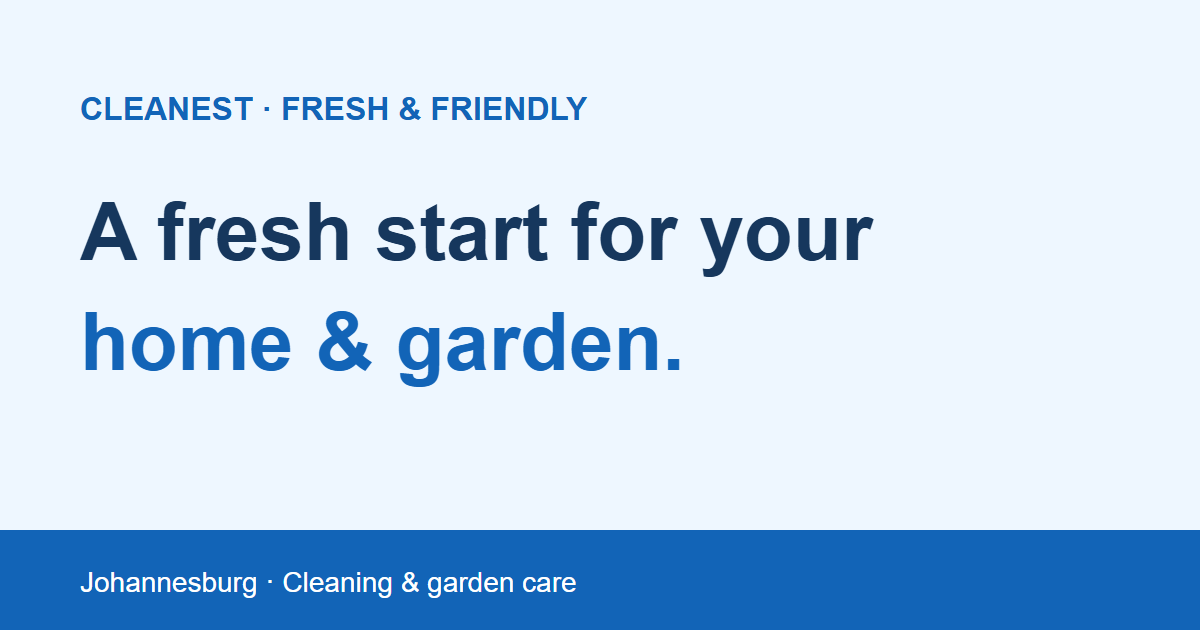
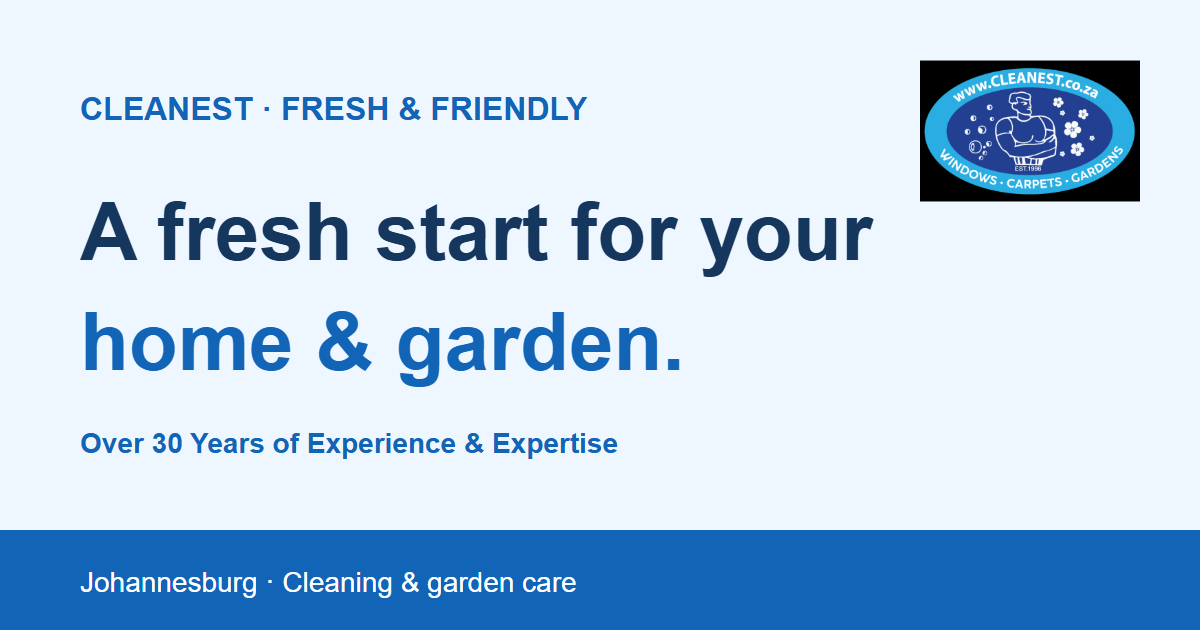
Apply client-selected branding and service updates

Changed region(s): [[0.74, 0.0905, 0.9558, 0.3317], [0.0617, 0.6635, 0.5242, 0.7238]]

diff --git a/src/main.tsx b/src/main.tsx
@@ -1,7 +1,7 @@
 import { StrictMode, useEffect, useRef, useState } from 'react';
 import { createRoot } from 'react-dom/client';
 import { ArrowRight, ArrowUpRight, Check, Leaf, MapPin, Menu, X, Phone, Sparkles, HeartHandshake, Building2, MessageCircle, Quote } from 'lucide-react';
-import { areas, business, reviews, services } from './data';
+import { areas, business, experience, reviews, services } from './data';
 import { Heading, Logo, Photo, QuoteButton } from './components';
 import { QuoteForm } from './QuoteForm';
 import './styles.css';
@@ -19,9 +19,9 @@ function App(){
   const review=reviews[0];
   useEffect(()=>{const onKey=(event:KeyboardEvent)=>{if(event.key==='Escape'&&menuOpen){setMenuOpen(false);menuButton.current?.focus();}};window.addEventListener('keydown',onKey);return()=>window.removeEventListener('keydown',onKey);},[menuOpen]);
   return <><a className="skip-link" href="#main">Skip to content</a><div className="utility-bar" role="region" aria-label="Contact Cleanest"><div className="wrap"><span><MapPin size={14}/>Johannesburg</span><div><a href={`tel:${business.tel}`}><Phone size={14}/>{business.phone}</a><a href={business.whatsapp} target="_blank" rel="noreferrer"><MessageCircle size={14}/>WhatsApp us<ArrowUpRight size={13}/></a></div></div></div><header className="site-header"><div className="wrap nav-row"><Logo/><nav id="main-navigation" className={menuOpen?'open':''} aria-label="Main navigation">{navigation.map(([title,href])=><a href={href} key={href} onClick={()=>setMenuOpen(false)}>{title}</a>)}</nav><QuoteButton className="header-quote"/><button ref={menuButton} className="menu-button" aria-label={menuOpen?'Close navigation':'Open navigation'} aria-expanded={menuOpen} aria-controls="main-navigation" onClick={()=>setMenuOpen(!menuOpen)}>{menuOpen?<X/>:<Menu/>}</button></div><div className="mobile-contacts"><a href={`tel:${business.tel}`}><Phone size={15}/>Call Cleanest</a><a href={business.whatsapp} target="_blank" rel="noreferrer"><MessageCircle size={16}/>WhatsApp us</a><a href="#contact" onClick={()=>setMenuOpen(false)}>Request a Quote<ArrowRight size={15}/></a></div></header>
-    <main id="main"><section className="hero" id="home"><div className="hero-photo"><Photo file="newgarden2.webp" alt="Cleanest’s garden maintenance worker trimming a hedge, from the existing Cleanest website" priority/><span className="hero-photo-note"><Leaf size={17}/>Fresh outdoors. Cared-for spaces.</span></div><div className="wrap hero-inner"><div className="hero-message"><span className="kicker"><span className="fresh-dot"/>CLEANING & GARDEN CARE</span><h1>A fresh start<br/>for your<br/><span>home & garden.</span></h1><p>Professional cleaning and garden care, with 29 years of experience helping homes and businesses feel fresh, inside and out.</p><div className="hero-places"><MapPin size={16}/>Johannesburg</div><div className="hero-actions"><QuoteButton/><a className="btn btn-white" href="#services">Explore Services<ArrowRight size={17}/></a></div><a className="hero-whatsapp" href={business.whatsapp} target="_blank" rel="noreferrer"><MessageCircle size={17}/>Let’s talk about your space<ArrowUpRight size={15}/></a></div></div></section>
-    <div className="quick-trust"><div className="wrap"><div className="trust-years"><strong>29</strong><span>years of<br/>experience</span></div><div><HeartHandshake/><span>Owner managed.<br/><strong>Personally cared for.</strong></span></div><div><MapPin/><span>Johannesburg<br/>& surrounds</span></div><div><Sparkles/><span>Cleaning inside.<br/><strong>Garden care outside.</strong></span></div></div></div>
-    <section className="section wrap" id="services"><div className="section-top"><Heading kicker="A LITTLE HELP GOES A LONG WAY" title="Fresh spaces start here." text="One place for the cleaning and garden care your property needs."/><QuoteButton className="services-quote"/></div><div className="services-layout">{services.map((item,index)=><article key={item.id} id={item.id} className={`service-tile service-${item.id}`}><div className="service-photo"><Photo file={item.image} alt={item.alt}/><span className="service-icon">{index===2?<Leaf size={22}/>:<Sparkles size={22}/>}</span></div><div className="service-content"><span className="service-category">{index===2?'OUTDOOR CARE':'INDOOR CARE'}</span><h3>{item.name}</h3><p>{item.description}</p><ul>{item.details.map(detail=><li key={detail}><Check size={15}/>{detail}</li>)}</ul><QuoteButton onClick={()=>setService(item.name)} className="service-quote">Request a Quote</QuoteButton></div></article>)}</div><div className="services-extra"><Leaf size={19}/><p>Garden care for complexes, estates, schools and sports fields, too.</p><a href="#contact" onClick={()=>setService('Garden services')}>Tell us what you need<ArrowRight size={17}/></a></div></section>
+    <main id="main"><section className="hero" id="home"><div className="hero-photo"><Photo file="newgarden2.webp" alt="Cleanest’s garden maintenance worker trimming a hedge, from the existing Cleanest website" priority/><span className="hero-photo-note"><Leaf size={17}/>Fresh outdoors. Cared-for spaces.</span></div><div className="wrap hero-inner"><div className="hero-message"><span className="kicker"><span className="fresh-dot"/>CLEANING & GARDEN CARE</span><h1>A fresh start<br/>for your<br/><span>home & garden.</span></h1><p className="hero-experience"><strong>{experience}</strong></p><p>Professional cleaning and garden care for homes and businesses, inside and out.</p><div className="hero-places"><MapPin size={16}/>Johannesburg</div><div className="hero-actions"><QuoteButton/><a className="btn btn-white" href="#services">Explore Services<ArrowRight size={17}/></a></div><a className="hero-whatsapp" href={business.whatsapp} target="_blank" rel="noreferrer"><MessageCircle size={17}/>Let’s talk about your space<ArrowUpRight size={15}/></a></div></div></section>
+    <div className="quick-trust"><div className="wrap"><div className="trust-years"><strong>Over 30</strong><span>Years of Experience<br/>&amp; Expertise</span></div><div><HeartHandshake/><span>Owner managed.<br/><strong>Personally cared for.</strong></span></div><div><MapPin/><span>Johannesburg<br/>& surrounds</span></div><div><Sparkles/><span>Cleaning inside.<br/><strong>Garden care outside.</strong></span></div></div></div>
+    <section className="section wrap" id="services"><div className="section-top"><Heading kicker="A LITTLE HELP GOES A LONG WAY" title="Fresh spaces start here." text="One place for the cleaning and garden care your property needs."/><QuoteButton className="services-quote"/></div><div className="services-layout">{services.map((item,index)=><article key={item.id} id={item.id} className={`service-tile service-${item.id}`}><div className="service-photo"><Photo file={item.image} alt={item.alt}/><span className="service-icon">{index===2?<Leaf size={22}/>:<Sparkles size={22}/>}</span></div><div className="service-content">{index===2?<span className="garden-detail" aria-hidden="true"><Leaf size={32} strokeWidth={1}/></span>:<span className="cleaning-bubbles" aria-hidden="true"><i/><i/><i/></span>}<span className="service-category">{index===2?'GARDEN SERVICES':'CLEANING SERVICES'}</span><h3>{item.name}</h3><p>{item.description}</p><ul>{item.details.map(detail=><li key={detail}><Check size={15}/>{detail}</li>)}</ul><QuoteButton onClick={()=>setService(item.name)} className="service-quote">Request a Quote</QuoteButton></div></article>)}</div><div className="services-extra"><Leaf size={19}/><p>Garden care for complexes, estates, schools and sports fields, too.</p><a href="#contact" onClick={()=>setService('Garden services')}>Tell us what you need<ArrowRight size={17}/></a></div></section>
     <section className="about-section" id="about"><div className="section wrap about-layout"><div className="about-visual"><Photo file="carpetteam.webp" alt="Cleanest team pictured together in branded workwear alongside company vehicles, from Cleanest’s website"/><div className="about-photo-caption"><HeartHandshake size={20}/><span>Local care. Personal attention.</span></div></div><div className="about-copy"><Heading kicker="HELLO, WE’RE CLEANEST" title="People who care for the places you care about."/><p>Cleanest brings professional cleaning and garden care to homes and businesses in Johannesburg.</p><p>With an owner-managed approach and dedicated local teams, personal attention is part of how we care for your property.</p><div className="about-points"><span><Check/>Carpets, upholstery & windows</span><span><Check/>Year-round garden maintenance</span><span><Check/>Homes, complexes & corporate grounds</span></div><QuoteButton/></div></div></section>
     <section className="section wrap" id="work"><div className="section-top"><Heading kicker="CLEANEST IN ACTION" title="A closer look at the care." text="Cleaning and garden imagery from Cleanest’s existing website."/><div className="gallery-filters" role="group" aria-label="Gallery category">{['All','Cleaning','Gardens'].map(category=><button key={category} aria-pressed={category===galleryFilter} onClick={()=>setGalleryFilter(category)}>{category}</button>)}</div></div><div className={`work-grid filter-${galleryFilter.toLowerCase()}`}>{gallery.filter(item=>galleryFilter==='All'||item.category===galleryFilter).map(item=><figure className="work-photo" key={item.file}><Photo file={item.file} alt={item.alt}/><figcaption><span>{item.category}</span><strong>{item.title}</strong></figcaption></figure>)}</div></section>
     <section className="area-section" id="areas"><div className="section wrap"><Heading kicker="JOHANNESBURG & SURROUNDS" title="Find your Cleanest team." text="Explore the Johannesburg areas listed on our website." center/><div className="area-panel" id="area-panel" role="region" aria-label="Johannesburg service area"><div className="area-identity"><div className="area-symbol"><Building2 size={64} strokeWidth={1.2}/></div><span>{area.label}</span><h3>{area.name}</h3><p>{area.description}</p><QuoteButton onClick={()=>setLocation(area.name)}>Request a Quote</QuoteButton></div><div className="area-suburbs"><h4>Is your area here?</h4><p>Service areas listed by Cleanest:</p><div className="suburb-list">{area.suburbs.split(' · ').map(suburb=><span key={suburb}><MapPin size={13}/>{suburb}</span>)}</div><a href="#contact" onClick={()=>setLocation(area.name)}>Ask us about your suburb<ArrowRight size={17}/></a></div></div></div></section>

diff --git a/src/QuoteForm.tsx b/src/QuoteForm.tsx
@@ -1,7 +1,7 @@
 import { useRef, useState } from 'react';
 import type { FormEvent } from 'react';
 import { ArrowRight, Upload, X, Phone, Mail, Clock } from 'lucide-react';
-import { areas, business, services } from './data';
+import { areas, business, cleaningServices, services } from './data';
 import { WhatsApp } from './components';
 
 export function QuoteForm({location,setLocation,service,setService}:{location:string;setLocation:(value:string)=>void;service:string;setService:(value:string)=>void}){
@@ -11,5 +11,5 @@ export function QuoteForm({location,setLocation,service,setService}:{location:st
   const dialog=useRef<HTMLDialogElement>(null);
   const fileInput=useRef<HTMLInputElement>(null);
   function submit(event:FormEvent<HTMLFormElement>){event.preventDefault();const data=new FormData(event.currentTarget);setSummary(`Name: ${data.get('name')}\nPhone: ${data.get('phone')}\nEmail: ${data.get('email')}\nLocation: ${location}\nService: ${service}\n\n${data.get('message')}\n\nPhotos selected: ${photos.length}. Photos have not been uploaded.`);dialog.current?.showModal();}
-  return <><div className="quote-box"><div className="quote-top"><div><span className="kicker">TELL US WHAT YOU NEED</span><h3>Let’s freshen things up.</h3></div><span className="quote-top-label">Cleaning. Gardens. Sorted.</span></div><div className="quote-body"><form onSubmit={submit}><div className="form-grid grid sm:grid-cols-2 gap-5"><label>Name<input name="name" autoComplete="name" placeholder="Your full name" required maxLength={120}/></label><label>Phone<input name="phone" type="tel" autoComplete="tel" placeholder="e.g. 082 123 4567" pattern="(?=(?:[^0-9]*[0-9]){9})[+0-9 ]{9,20}" title="Use 9–20 digits, spaces or +" required/></label><label className="field-wide">Email<input name="email" type="email" autoComplete="email" placeholder="you@example.com" required maxLength={254}/></label><label htmlFor="quote-location">Location<select id="quote-location" aria-label="Location" value={location} onChange={event=>setLocation(event.target.value)} required><option value="">Choose your area</option>{areas.map(area=><option key={area.name}>{area.name}</option>)}</select></label><label htmlFor="quote-service">Service required<select id="quote-service" aria-label="Service required" value={service} onChange={event=>setService(event.target.value)} required><option value="">Choose a service</option>{services.map(item=><option key={item.id}>{item.name}</option>)}<option>Multiple services</option></select></label><label className="field-wide">Description of work<textarea name="message" rows={3} placeholder="Your suburb, what needs attention and anything else we should know…" maxLength={3000} required/></label><label className="photo-upload field-wide"><Upload size={22}/><span>Add photos of your space<small>Optional · up to 5 JPG, PNG or WebP images · 10 MB each</small></span><input ref={fileInput} type="file" aria-label="Add photos of your space" accept="image/jpeg,image/png,image/webp" multiple onChange={event=>{const files=Array.from(event.target.files||[]);if(files.length>5||files.some(file=>file.size>10*1024*1024||!['image/jpeg','image/png','image/webp'].includes(file.type))){setError('Choose up to 5 JPG, PNG or WebP images under 10 MB each.');setPhotos([]);event.target.value='';}else{setPhotos(files);setError('');}}}/></label></div>{photos.length>0&&<div className="photo-files" role="status"><span>{photos.map(photo=>photo.name).join(', ')}</span><button type="button" onClick={()=>{setPhotos([]);if(fileInput.current)fileInput.current.value='';}}>Remove photos</button></div>}{error&&<p className="form-error" role="alert">{error}</p>}<div className="form-bottom"><button className="btn btn-blue" type="submit">Request a Quote<ArrowRight size={18}/></button><p>Enquiry functionality will be connected on the final website.</p></div></form><div className="contact-options"><h3>Prefer a quick chat?</h3><p>Call, send an email or tell us about your space on WhatsApp.</p><WhatsApp/><a className="contact-phone" href={`tel:${business.tel}`}><Phone size={21}/><span><small>GIVE US A CALL</small>{business.phone}</span></a><div className="contact-emails"><Mail size={19}/><div>{business.emails.map(email=><a key={email} href={`mailto:${email}`}>{email}</a>)}</div></div><div className="contact-hours"><Clock size={19}/><span>Monday–Friday<br/>08h00–17h00</span></div><div className="contact-locations">Johannesburg</div></div></div></div><dialog ref={dialog} className="request-dialog" aria-labelledby="enquiry-title"><button className="dialog-close" onClick={()=>dialog.current?.close()} aria-label="Close enquiry review"><X/></button><span className="kicker">YOUR ENQUIRY</span><h2 id="enquiry-title">Here’s what you’ve shared.</h2><p>Enquiry functionality will be connected on the final website. Nothing has been sent; details and photos stay on your device.</p><pre>{summary}</pre><button className="btn btn-blue" onClick={()=>dialog.current?.close()}>Back to your enquiry<ArrowRight size={17}/></button></dialog></>;
+  return <><div className="quote-box"><div className="quote-top"><div><span className="kicker">TELL US WHAT YOU NEED</span><h3>Let’s freshen things up.</h3></div><span className="quote-top-label">Cleaning. Gardens. Sorted.</span></div><div className="quote-body"><form onSubmit={submit}><div className="form-grid grid sm:grid-cols-2 gap-5"><label>Name<input name="name" autoComplete="name" placeholder="Your full name" required maxLength={120}/></label><label>Phone<input name="phone" type="tel" autoComplete="tel" placeholder="e.g. 082 123 4567" pattern="(?=(?:[^0-9]*[0-9]){9})[+0-9 ]{9,20}" title="Use 9–20 digits, spaces or +" required/></label><label className="field-wide">Email<input name="email" type="email" autoComplete="email" placeholder="you@example.com" required maxLength={254}/></label><label htmlFor="quote-location">Location<select id="quote-location" aria-label="Location" value={location} onChange={event=>setLocation(event.target.value)} required><option value="">Choose your area</option>{areas.map(area=><option key={area.name}>{area.name}</option>)}</select></label><label htmlFor="quote-service">Service required<select id="quote-service" aria-label="Service required" value={service} onChange={event=>setService(event.target.value)} required><option value="">Choose a service</option>{services.map(item=><option key={item.id}>{item.name}</option>)}<optgroup label="Cleaning services">{cleaningServices.map(name=><option key={name}>{name}</option>)}</optgroup><option>Multiple services</option></select></label><label className="field-wide">Description of work<textarea name="message" rows={3} placeholder="Your suburb, what needs attention and anything else we should know…" maxLength={3000} required/></label><label className="photo-upload field-wide"><Upload size={22}/><span>Add photos of your space<small>Optional · up to 5 JPG, PNG or WebP images · 10 MB each</small></span><input ref={fileInput} type="file" aria-label="Add photos of your space" accept="image/jpeg,image/png,image/webp" multiple onChange={event=>{const files=Array.from(event.target.files||[]);if(files.length>5||files.some(file=>file.size>10*1024*1024||!['image/jpeg','image/png','image/webp'].includes(file.type))){setError('Choose up to 5 JPG, PNG or WebP images under 10 MB each.');setPhotos([]);event.target.value='';}else{setPhotos(files);setError('');}}}/></label></div>{photos.length>0&&<div className="photo-files" role="status"><span>{photos.map(photo=>photo.name).join(', ')}</span><button type="button" onClick={()=>{setPhotos([]);if(fileInput.current)fileInput.current.value='';}}>Remove photos</button></div>}{error&&<p className="form-error" role="alert">{error}</p>}<div className="form-bottom"><button className="btn btn-blue" type="submit">Request a Quote<ArrowRight size={18}/></button><p>Enquiry functionality will be connected on the final website.</p></div></form><div className="contact-options"><h3>Prefer a quick chat?</h3><p>Call, send an email or tell us about your space on WhatsApp.</p><WhatsApp/><a className="contact-phone" href={`tel:${business.tel}`}><Phone size={21}/><span><small>GIVE US A CALL</small>{business.phone}</span></a><div className="contact-emails"><Mail size={19}/><div>{business.emails.map(email=><a key={email} href={`mailto:${email}`}>{email}</a>)}</div></div><div className="contact-hours"><Clock size={19}/><span>Monday–Friday<br/>08h00–17h00</span></div><div className="contact-locations">Johannesburg</div></div></div></div><dialog ref={dialog} className="request-dialog" aria-labelledby="enquiry-title"><button className="dialog-close" onClick={()=>dialog.current?.close()} aria-label="Close enquiry review"><X/></button><span className="kicker">YOUR ENQUIRY</span><h2 id="enquiry-title">Here’s what you’ve shared.</h2><p>Enquiry functionality will be connected on the final website. Nothing has been sent; details and photos stay on your device.</p><pre>{summary}</pre><button className="btn btn-blue" onClick={()=>dialog.current?.close()}>Back to your enquiry<ArrowRight size={17}/></button></dialog></>;
 }

diff --git a/src/data.ts b/src/data.ts
@@ -1,9 +1,12 @@
 export const business = { phone: '083 440 2603', tel: '+27834402603', whatsapp: 'https://wa.me/27834402603', emails: ['simone@cleanest.co.za', 'jason@cleanest.co.za'], facebook: 'https://www.facebook.com/cleanestsa' };
 export const services = [
-  { id: 'carpets', name: 'Carpet & upholstery cleaning', image: 'newcarpet1.webp', alt: 'Carpet extraction cleaning, pictured on Cleanest’s existing website', description: 'Freshen up the spaces you live and work in, with deep cleaning for carpets, sofas, chairs and mattresses.', details: ['Deep carpet cleaning', 'Stain & odour treatment', 'Sofas, chairs & mattresses'] },
-  { id: 'windows', name: 'Window cleaning', image: 'winc1.webp', alt: 'Squeegee cleaning a window, from Cleanest’s existing service gallery', description: 'Let the light back in. Interior and exterior cleaning for accessible windows up to the second floor.', details: ['Interior & exterior glass', 'Frames, sills & tracks', 'Glass doors & mirrors'] },
+  { id: 'carpets', name: 'Carpet & upholstery cleaning', image: 'newcarpet1.webp', alt: 'Carpet extraction cleaning, pictured on Cleanest’s existing website', description: 'Care for the fabrics and furnishings in your space, from carpets and rugs to upholstery and leather.', details: ['Carpets and rugs', 'Upholstery and leather', 'Mattresses and headboards', 'Curtains and blinds'] },
+  { id: 'windows', name: 'Window & specialist cleaning', image: 'winc1.webp', alt: 'Squeegee cleaning a window, from Cleanest’s existing service gallery', description: 'Interior and exterior cleaning for accessible windows up to the second floor, plus specialist cleaning for your property.', details: ['Window cleaning', 'Solar panel cleaning', 'Flood damage cleaning', 'Pre- and post-occupation cleaning'] },
   { id: 'gardens', name: 'Garden services', image: 'newgarden2.webp', alt: 'Garden maintenance worker trimming a hedge, pictured on Cleanest’s existing website', description: 'Year-round care for residential gardens, complexes, estates and corporate grounds.', details: ['Mowing, edging & pruning', 'Tree felling & site clearing', 'Irrigation installations'] },
 ];
+// Directly supplied by Simone and Jason via client feedback, 9 October 2026.
+export const experience = 'Over 30 Years of Experience & Expertise';
+export const cleaningServices = services.slice(0, 2).flatMap(service => service.details);
 export const areas = [
   { name: 'Johannesburg', label: 'CITY & SURROUNDS', description: 'Cleaning and garden care for homes, offices, complexes and estates across greater Johannesburg.', suburbs: 'Sandton · Randburg · Roodepoort · Midrand · Fourways · Bryanston · Rosebank · Bedfordview · Edenvale' },
 ];

diff --git a/index.html b/index.html
@@ -1,2 +1,2 @@
 <!doctype html>
-<html lang="en-ZA"><head><meta charset="UTF-8"/><meta name="viewport" content="width=device-width, initial-scale=1.0"/><meta name="robots" content="noindex, nofollow, noarchive"/><meta name="description" content="Fresh & Friendly: a separate Cleanest homepage design concept featuring cleaning and garden care in Johannesburg."/><meta property="og:title" content="Cleanest — Fresh &amp; Friendly | Homepage Preview"/><meta property="og:description" content="A brighter homepage concept for Cleanest’s cleaning and garden services."/><meta property="og:type" content="website"/><meta property="og:locale" content="en_ZA"/><meta property="og:image" content="https://cleanest-fresh-friendly.vercel.app/social-preview.png"/><meta name="theme-color" content="#1264b7"/><link rel="icon" href="/favicon.svg"/><title>Cleanest — Fresh &amp; Friendly | Homepage Preview</title><meta property="og:image:type" content="image/png"/><meta property="og:image:width" content="1200"/><meta property="og:image:height" content="630"/></head><body><div id="root"></div><script type="module" src="/src/main.tsx"></script></body></html>
+<html lang="en-ZA"><head><meta charset="UTF-8"/><meta name="viewport" content="width=device-width, initial-scale=1.0"/><meta name="robots" content="noindex, nofollow, noarchive"/><meta name="description" content="Fresh & Friendly: a separate Cleanest homepage design concept featuring cleaning and garden care in Johannesburg."/><meta property="og:title" content="Cleanest — Fresh &amp; Friendly | Homepage Preview"/><meta property="og:description" content="A brighter homepage concept for Cleanest’s cleaning and garden services."/><meta property="og:type" content="website"/><meta property="og:locale" content="en_ZA"/><meta property="og:image" content="https://cleanest-fresh-friendly.vercel.app/social-preview.png"/><meta name="theme-color" content="#1264b7"/><link rel="icon" type="image/jpeg" href="/images/cleanest-logo.jpeg"/><title>Cleanest — Fresh &amp; Friendly | Homepage Preview</title><meta property="og:image:type" content="image/png"/><meta property="og:image:width" content="1200"/><meta property="og:image:height" content="630"/></head><body><div id="root"></div><script type="module" src="/src/main.tsx"></script></body></html>

diff --git a/src/styles.css b/src/styles.css
@@ -12,3 +12,25 @@
 
 /* Existing green text, adjusted only where contrast was insufficient. */
 .hero-whatsapp,.mobile-contacts a:nth-child(2),.area-section .kicker{color:#417c24}
+
+/* Client-approved branding and service accents — 9 October 2026. */
+.site-header .logo img{width:150px;flex-shrink:0}
+.site-header .logo{flex-shrink:0}
+.nav-row{min-height:118px}
+.hero-message>.hero-experience{font-size:19px;line-height:1.4;color:var(--blue);max-width:390px;margin-top:20px}
+.hero-experience strong{font-weight:700}
+.quick-trust .trust-years{flex-direction:column;align-items:flex-start;gap:5px}
+.trust-years strong{font-size:30px;letter-spacing:-.035em;white-space:nowrap}
+.trust-years>span{font-size:11px;line-height:1.4}
+.service-content{position:relative}
+.cleaning-bubbles{position:absolute;top:12px;right:17px;width:58px;height:31px;pointer-events:none;opacity:.65}
+.cleaning-bubbles i{position:absolute;border:1.5px solid #78b7df;background:#f5fbff;border-radius:50%;width:22px;height:22px;left:0;top:7px}
+.cleaning-bubbles i:nth-child(2){width:13px;height:13px;left:28px;top:0}
+.cleaning-bubbles i:nth-child(3){width:9px;height:9px;left:45px;top:17px}
+.garden-detail{position:absolute;top:-15px;right:18px;color:#5b8b35;background:#f3f8ed;line-height:0;padding:3px;pointer-events:none}
+@media(max-width:1100px){.site-header .logo img{width:130px}.nav-row{min-height:106px}}
+@media(max-width:950px){.nav-row nav{top:106px}}
+@media(max-width:650px){.site-header .logo img{width:126px}.nav-row{min-height:102px}.nav-row nav{top:144px}.hero-message>.hero-experience{font-size:18px}.trust-years strong{font-size:26px}.trust-years>span{font-size:10px}}
+
+html{scroll-padding-top:160px}
+@media(min-width:651px) and (max-width:1100px){html{scroll-padding-top:150px}}

diff --git a/src/components.tsx b/src/components.tsx
@@ -2,7 +2,7 @@ import { ArrowRight, MessageCircle } from 'lucide-react';
 import { business } from './data';
 import type { ReactNode } from 'react';
 
-export function Logo(){return <a className="logo" href="#home" aria-label="Cleanest home"><img src="/images/cleanest-logo.png" alt="Cleanest — windows, carpets and gardens" width="237" height="150"/><span>Cleaning &<br/>garden care</span></a>;}
+export function Logo(){return <a className="logo" href="#home" aria-label="Cleanest home"><img src="/images/cleanest-logo.jpeg" alt="Cleanest — windows, carpets and gardens, established 1996" width="1280" height="826"/><span>Cleaning &<br/>garden care</span></a>;}
 export function QuoteButton({onClick,children='Request a Quote',className=''}:{onClick?:()=>void;children?:ReactNode;className?:string}){return <a href="#contact" className={`btn btn-blue ${className}`} onClick={onClick}>{children}<ArrowRight size={18}/></a>;}
 export function WhatsApp({className=''}:{className?:string}){return <a href={business.whatsapp} className={`btn btn-whatsapp ${className}`} target="_blank" rel="noreferrer"><MessageCircle size={18}/>WhatsApp us</a>;}
 export function Heading({kicker,title,text,center=false}:{kicker:string;title:string;text?:string;center?:boolean}){return <div className={`heading ${center?'heading-center':''}`}><span className="kicker">{kicker}</span><h2>{title}</h2>{text&&<p>{text}</p>}</div>;}

diff --git a/README.md b/README.md
@@ -1,6 +1,6 @@
 # Cleanest — Fresh & Friendly
 
-A separate website redesign concept for **Cleanest Cleaning & Garden Care**, named **Fresh & Friendly** (Concept 2). This is a client-presentation preview, not the current official website. The official website is [cleanest.co.za](https://www.cleanest.co.za/). Concept 1 is a separate project and repository. No Vercel deployment has been made for this concept.
+A separate website redesign concept for **Cleanest Cleaning & Garden Care**, named **Fresh & Friendly** (Concept 2). This is a client-presentation preview, not the current official website. The official website is [cleanest.co.za](https://www.cleanest.co.za/). Concept 1 is a separate project and repository. The selected demo is hosted separately at https://cleanest-fresh-friendly.vercel.app; the official website is unchanged.
 
 ## Run
 
@@ -10,7 +10,7 @@ To run `npm run test:ui`, first start a local server and set `SITE_URL` to its a
 
 ## Design and editing
 
-The new design uses strong blue, fresh green, pale blue and warm cream, bold sans-serif typography, dominant photography, asymmetric service tiles, a team introduction, varied gallery sizes, tabbed service areas, one rotating testimonial, and an integrated quote/contact panel. Mobile call/WhatsApp/quote links live in the sticky header instead of a floating widget.
+The new design uses strong blue, fresh green, pale blue and warm cream, bold sans-serif typography, dominant photography, asymmetric service tiles, a team introduction, varied gallery sizes, Johannesburg service coverage, one sourced testimonial, and an integrated quote/contact panel. Mobile call/WhatsApp/quote links live in the sticky header instead of a floating widget.
 
 - `src/data.ts`: verified contacts, services, locations and reviews.
 - `src/components.tsx`: reusable logo, headings, photos and CTAs.
@@ -22,15 +22,15 @@ No form request is sent. Photos stay on the device; no backend/upload storage ex
 
 ## Demo protections
 
-HTML uses `noindex, nofollow, noarchive`. `robots.txt` disallows crawling. Prepared `vercel.json` adds X-Robots-Tag to every path, should deployment later be authorised. Noindex is not access control; configure host access protection for a private demo link. No official-site canonical or active business JSON-LD is added. The SVG social preview can be replaced by an approved raster version for platforms that require one after a deployment URL is known.
+HTML uses `noindex, nofollow, noarchive`. `robots.txt` disallows crawling. Prepared `vercel.json` adds X-Robots-Tag to every path, on the existing demo deployment. Noindex is not access control; configure host access protection for a private demo link. No official-site canonical or active business JSON-LD is added. The raster social preview includes the client-supplied logo and approved experience wording.
 
 ## Client confirmation
 
-Confirm current experience wording, branch-specific services and exact coverage, contact details/hours, testimonial authenticity and publication permission, image rights, high-resolution logo, matched before/after photos with captions, and final enquiry recipients/privacy/upload/retention requirements. See `research/CONTENT-SOURCES.md` for evidence and image provenance.
+Experience wording, the new logo and the cleaning service list were supplied directly by Simone and Jason on 9 October 2026. Before official launch, confirm exact coverage, contact details/hours, testimonial authenticity and publication permission, image rights, high-resolution logo, matched before/after photos with captions, and final enquiry recipients/privacy/upload/retention requirements. See `research/CONTENT-SOURCES.md` for evidence and image provenance.
 
 ## Import into Vercel when authorised
 
-Create a new Vercel project and import `izelbia1-lgtm/cleanest-fresh-friendly`. Use the `main` branch, Vite framework, repository root, build command `npm run build`, and output directory `dist`. No environment variables are required for the demo. Review the settings before choosing Deploy; deployment is a separate step from publishing this repository.
+The existing Vercel project imports `izelbia1-lgtm/cleanest-fresh-friendly`. Use the `main` branch, Vite framework, repository root, build command `npm run build`, and output directory `dist`. No environment variables are required for the demo. Pushes to main deploy through the existing integration; do not create an additional project.
 
 Preserve the noindex settings and use hosting access protection if the demo link must be private. Do not connect or change the client's domain, DNS or existing hosting.
 

diff --git a/research/CONTENT-SOURCES.md b/research/CONTENT-SOURCES.md
@@ -1,11 +1,11 @@
-# Current content scope — 8 October 2026
+# Current content scope — 9 October 2026
 
-Simone’s direct client confirmation supersedes older coverage on the existing website. Cleanest operates in Johannesburg only. The source website remains unmodified.
+Simone and Jason selected Concept 2. Their direct feedback supersedes older website wording: use “Over 30 Years of Experience & Expertise” and the exact supplied logo (blue oval, figure, bubbles, flowers, EST. 1996). The unmodified JPEG was provided in Downloads as WhatsApp Image 2026-10-09 at 07.28.28.jpeg; its SHA-256 is c620117428baf072b7850e42682855e77a23a2fe7f84624b0615e896eb989c8b.
 
-Retained Johannesburg suburbs: Sandton, Randburg, Roodepoort, Midrand, Fourways, Bryanston, Rosebank, Bedfordview and Edenvale, supported by https://www.cleanest.co.za/johannesburgcleanest.html. Only the exact Sarah L. testimonial from that page is retained.
+The client supplied these cleaning services: carpets and rugs; upholstery and leather; mattresses and headboards; curtains and blinds; flood damage cleaning; window cleaning; solar panel cleaning; pre- and post-occupation cleaning. They are grouped into the existing cleaning panels and available individually in the enquiry selector. No additional service claims or guarantees were introduced.
 
-Services, owner management and the stated 29 years of experience remain supported by the homepage and carpet/window/garden service pages. Existing phone, Simone/Jason emails, operating hours, Facebook and WhatsApp contacts remain unchanged. Raw historical source captures and prior QA images are archived outside the projects, not served or committed.
+Simone’s client confirmation establishes Johannesburg-only coverage. Retained suburbs are Sandton, Randburg, Roodepoort, Midrand, Fourways, Bryanston, Rosebank, Bedfordview and Edenvale, supported by https://www.cleanest.co.za/johannesburgcleanest.html. Only the exact Sarah L. testimonial from that page is retained.
 
-The shoreline garden photograph and regional testimonial have been removed. The hedge-maintenance photograph already supplied by Cleanest is used in the same image containers, without claiming a specific project location. Other real photographs and galleries remain intact.
+Garden descriptions, owner management, personal attention and window-access scope remain supported by the archived homepage and service pages. Phone, Simone/Jason emails, operating hours, Facebook and WhatsApp remain unchanged. The shoreline gardening photograph and regional testimonial remain removed. Other genuine Cleanest photography is unchanged.
 
-Noindex and local-only enquiry behaviour remain unchanged. No new suburbs, addresses, contact details, services or business claims were introduced.
+Noindex and local-only enquiry behaviour remain enabled. Photos are selected locally; form submissions only open a local review and never send or store enquiries. The official website and other concepts are unchanged.
